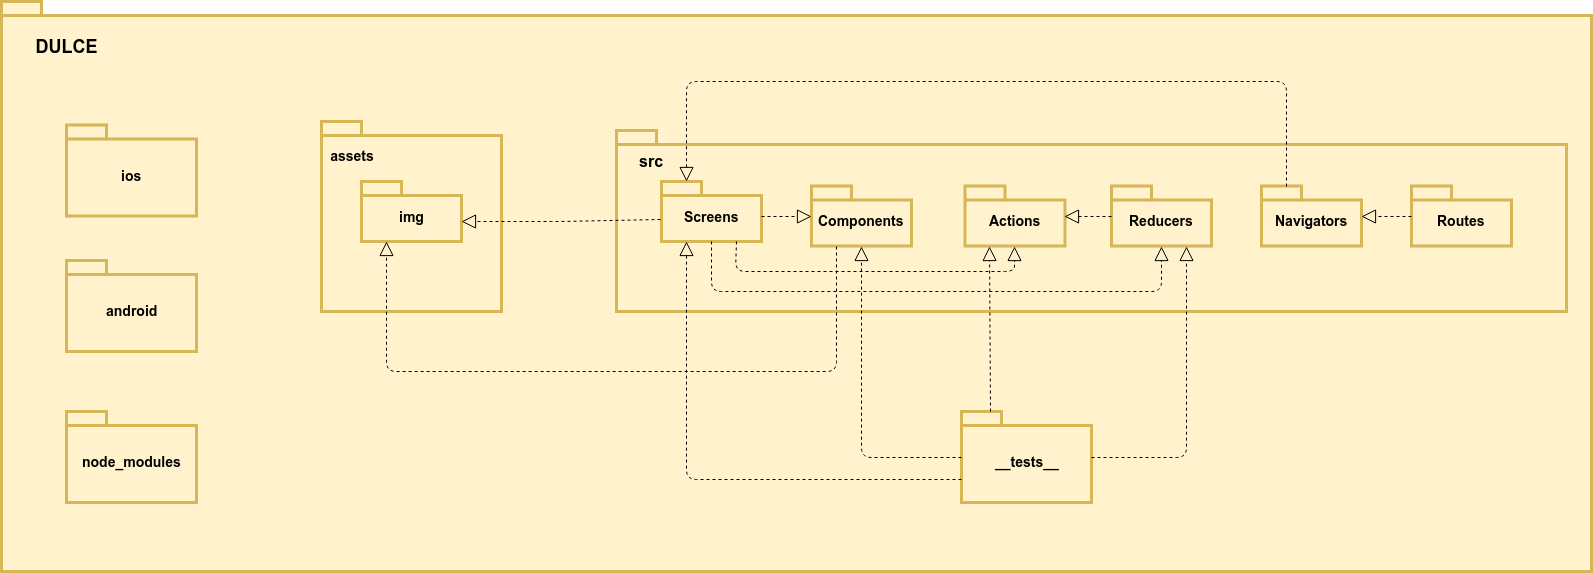
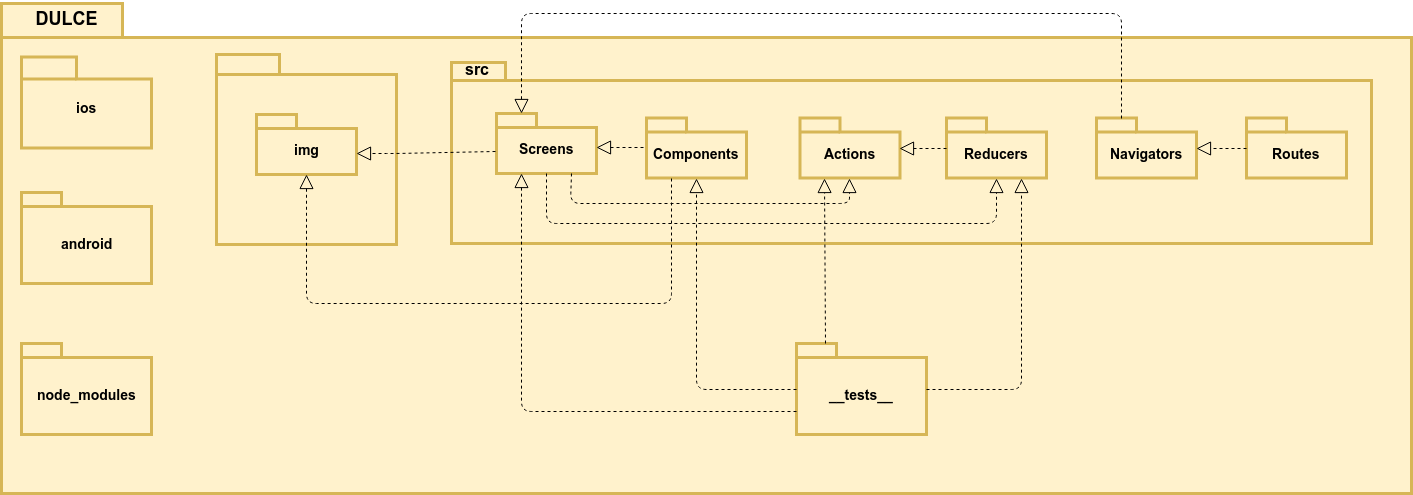
#4 Modificando os diagramas de pacotes.

diff --git a/especificacao/arquitetura.html b/especificacao/arquitetura.html
@@ -188,17 +188,17 @@
                                         <h3>2.1 Diagrama de relações:</h3>
                                         <br>
                                         <div align = "center">
-                                          <img src ="../assets/img/ArquiteturaEPS.jpg">
+                                          <img src ="../assets/img/ArquiteturaEPS.jpg" class = "img-fluid" max-width = '100%' height='auto'>
                                         </div>
                                           <p>
                                             O diagrama apresenta cada etapa que será seguido para que o aplicativo DULCE funcione. Relacionando o front-end com o Back-end.
                                           </p>
                                         <br>
                                         <br>
-                                        <h3>2.2 Diagrama React/Redux/API:</h3>
+                                        <h3>2.2 Diagrama React/Redux/Microsserviços:</h3>
                                         <br>
                                         <div align = "center">
-                                          <img src ="../assets/img/ReactRedux.png">
+                                          <img src ="../assets/img/ReactRedux.png" class = "img-fluid" max-width = '100%' height='auto'>
                                         </div>
                                         <br>
                                         <h6>React-Native</h6>
@@ -240,9 +240,9 @@
 
                                         <ul>
                                         <li><a href ="https://facebook.github.io/react-native/"> React-native</a>: Utilizado para a construção do aplicativo em IOS e Android;</li>
-                                        <li><a href ="https://nodejs.org/en/">Node.js</a>: Plataforma de desenvolvimento da API;</li>
+                                        <li><a href ="https://nodejs.org/en/">Node.js</a>: Plataforma de desenvolvimento dos microsserviços;</li>
                                         <li><a href ="http://senecajs.org/">SenecaJS</a>: Conjunto de ferramentas para implementação de microsserviços em Node.js;</li>
-                                        <li><a href="https://www.rabbitmq.com/">RabbitMQ</a>: Barramento de Serviços entre a API e o aplicativo;</li>
+                                        <li><a href="https://www.rabbitmq.com/">RabbitMQ</a>: Barramento de Serviços entre os microsserviço e o aplicativo;</li>
                                         <li><a href="https://www.mongodb.com/">MongoDB</a>: Banco de Dados não relacional;</li>
                                         <li>Manutenibilidade: O código deve ser facilmente modificado e corrigido.</li>
                                         </ul>
@@ -252,7 +252,7 @@
                                         <h1>4. Visão de Implementação</h1>
                                         <h3>4.1 Modelagem de dados</h3>
                                         <div style ="text-align: justify">
-                                          <script type="text/javascript" language="javascript" src="https://app.creately.com/player/creately-player.js"></script>
+                                          <script type="text/javascript" language="javascript" src="https://app.creately.com/player/creately-player.js" class = "img-fluid" max-width = '100%' height='auto'></script>
                                           <div id="creately-container-jhqrojnx1"></div>
                                           <script type="text/javascript">
                                             var player = new CreatelyPlayer( "creately-container-jhqrojnx1", "jhqrojnx1-xyw8guoxtJ4cfcVfUAiEKInHIhc=", { width: "1090px", height: "1340px" });
@@ -262,10 +262,13 @@
                                           </p> -->
                                         </div>
                                         <h3>4.2 Diagrama de Pacotes</h3>
-                                        <h6><b>Front-end</b></h6>
+                                        <h6><b>A) Front-end</b></h6>
                                           <p align = "center">
-                                          <img src="../assets/img/Diagrama_pacotes_react.png" width="1000" >
+                                          <img src="../assets/img/Diagrama_pacotes_react.png" width="1000" class = "img-fluid" max-width = '100%' height='auto'>
                                           </p>
+                                        <h6><b>B) Back-end</b></h6>
+                                          <p align = "center">
+                                            <img src="../assets/img/Diagrama_pacotes_microsservices.png" width="1000" class = "img-fluid" max-width = '100%' height='auto'>
 
 
                                         <div name= "Referencia" id= "referencia"></div>
